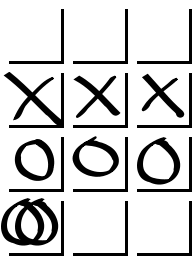
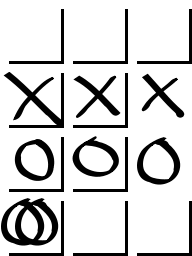
display when a miniboard is won

Changed region(s): [[0.7188, 0.5312, 1.0, 0.75], [0.7188, 0.2812, 1.0, 0.5]]

diff --git a/src/ro/northpole/xando/Xando.java b/src/ro/northpole/xando/Xando.java
@@ -38,6 +38,8 @@ public class Xando extends ZoomActivity {
 
 	private BitmapTextureAtlas mCardDeckTexture;
 	private Box[][] tiles;
+	private Box[][] miniBoardX;
+	private Box[][] miniBoardO;
 
 	private Scene mScene;
 
@@ -119,6 +121,37 @@ public class Xando extends ZoomActivity {
 		initBoardBackground();
 
 		tiles = new Box[9][9];
+		miniBoardX = new Box[3][3];
+		miniBoardO = new Box[3][3];
+
+		// TODO
+		// it is late, clean this up tomorrow
+		for (int i = 0; i < 3; i++) {
+			for (int j = 0; j < 3; j++) {
+				Box b = new Box(i, j, Const.O,
+						mCardTotextureRegionMap.get(Tile.DEFAULT_X_3),
+						getVertexBufferObjectManager(), null);
+				b.setPosition(i * Tile.CARD_WIDTH * 3 + 64, j
+						* Tile.CARD_HEIGHT * 3 + 64);
+				b.setAlpha(0.8f);
+				b.setScale(3f);
+				b.setVisible(false);
+				mScene.attachChild(b);
+				miniBoardX[i][j] = b;
+
+				Box b2 = new Box(i, j, Const.O,
+						mCardTotextureRegionMap.get(Tile.DEFAULT_Y_3),
+						getVertexBufferObjectManager(), null);
+				b2.setPosition(i * Tile.CARD_WIDTH * 3 + 64, j
+						* Tile.CARD_HEIGHT * 3 + 64);
+				b2.setAlpha(0.8f);
+				b2.setScale(3f);
+				b2.setVisible(false);
+				mScene.attachChild(b2);
+				miniBoardO[i][j] = b2;
+			}
+		}
+
 		redraw();
 
 		mScene.setBackground(new Background(1.0f, 1.0f, 1.0f));
@@ -180,22 +213,18 @@ public class Xando extends ZoomActivity {
 		switch (kind) {
 		case Const.X:
 			float r = new Random().nextFloat();
-			if (r < 0.33f) {
+			if (r < 0.5f) {
 				tR = mCardTotextureRegionMap.get(Tile.DEFAULT_X_1);
-			} else if (0.33f < r && r < 0.66f) {
-				tR = mCardTotextureRegionMap.get(Tile.DEFAULT_X_2);
 			} else {
-				tR = mCardTotextureRegionMap.get(Tile.DEFAULT_X_3);
+				tR = mCardTotextureRegionMap.get(Tile.DEFAULT_X_2);
 			}
 			break;
 		case Const.O:
 			float r2 = new Random().nextFloat();
-			if (r2 < 0.33f) {
+			if (r2 < 0.5f) {
 				tR = mCardTotextureRegionMap.get(Tile.DEFAULT_Y_1);
-			} else if (0.33f < r2 && r2 < 0.66f) {
-				tR = mCardTotextureRegionMap.get(Tile.DEFAULT_Y_2);
 			} else {
-				tR = mCardTotextureRegionMap.get(Tile.DEFAULT_Y_3);
+				tR = mCardTotextureRegionMap.get(Tile.DEFAULT_Y_2);
 			}
 			break;
 		default:
@@ -239,6 +268,17 @@ public class Xando extends ZoomActivity {
 					if (allowedMask != null) {
 						updateMask();
 					}
+				}
+			}
+		}
+
+		int[][] miniBoardTiles = np.getMiniBoardTiles();
+		for (int x = 0; x < 3; x++) {
+			for (int y = 0; y < 3; y++) {
+				if (miniBoardTiles[x][y] == Const.X) {
+					miniBoardX[y][x].setVisible(true);
+				} else if (miniBoardTiles[x][y] == Const.O) {
+					miniBoardO[y][x].setVisible(true);
 				}
 			}
 		}
